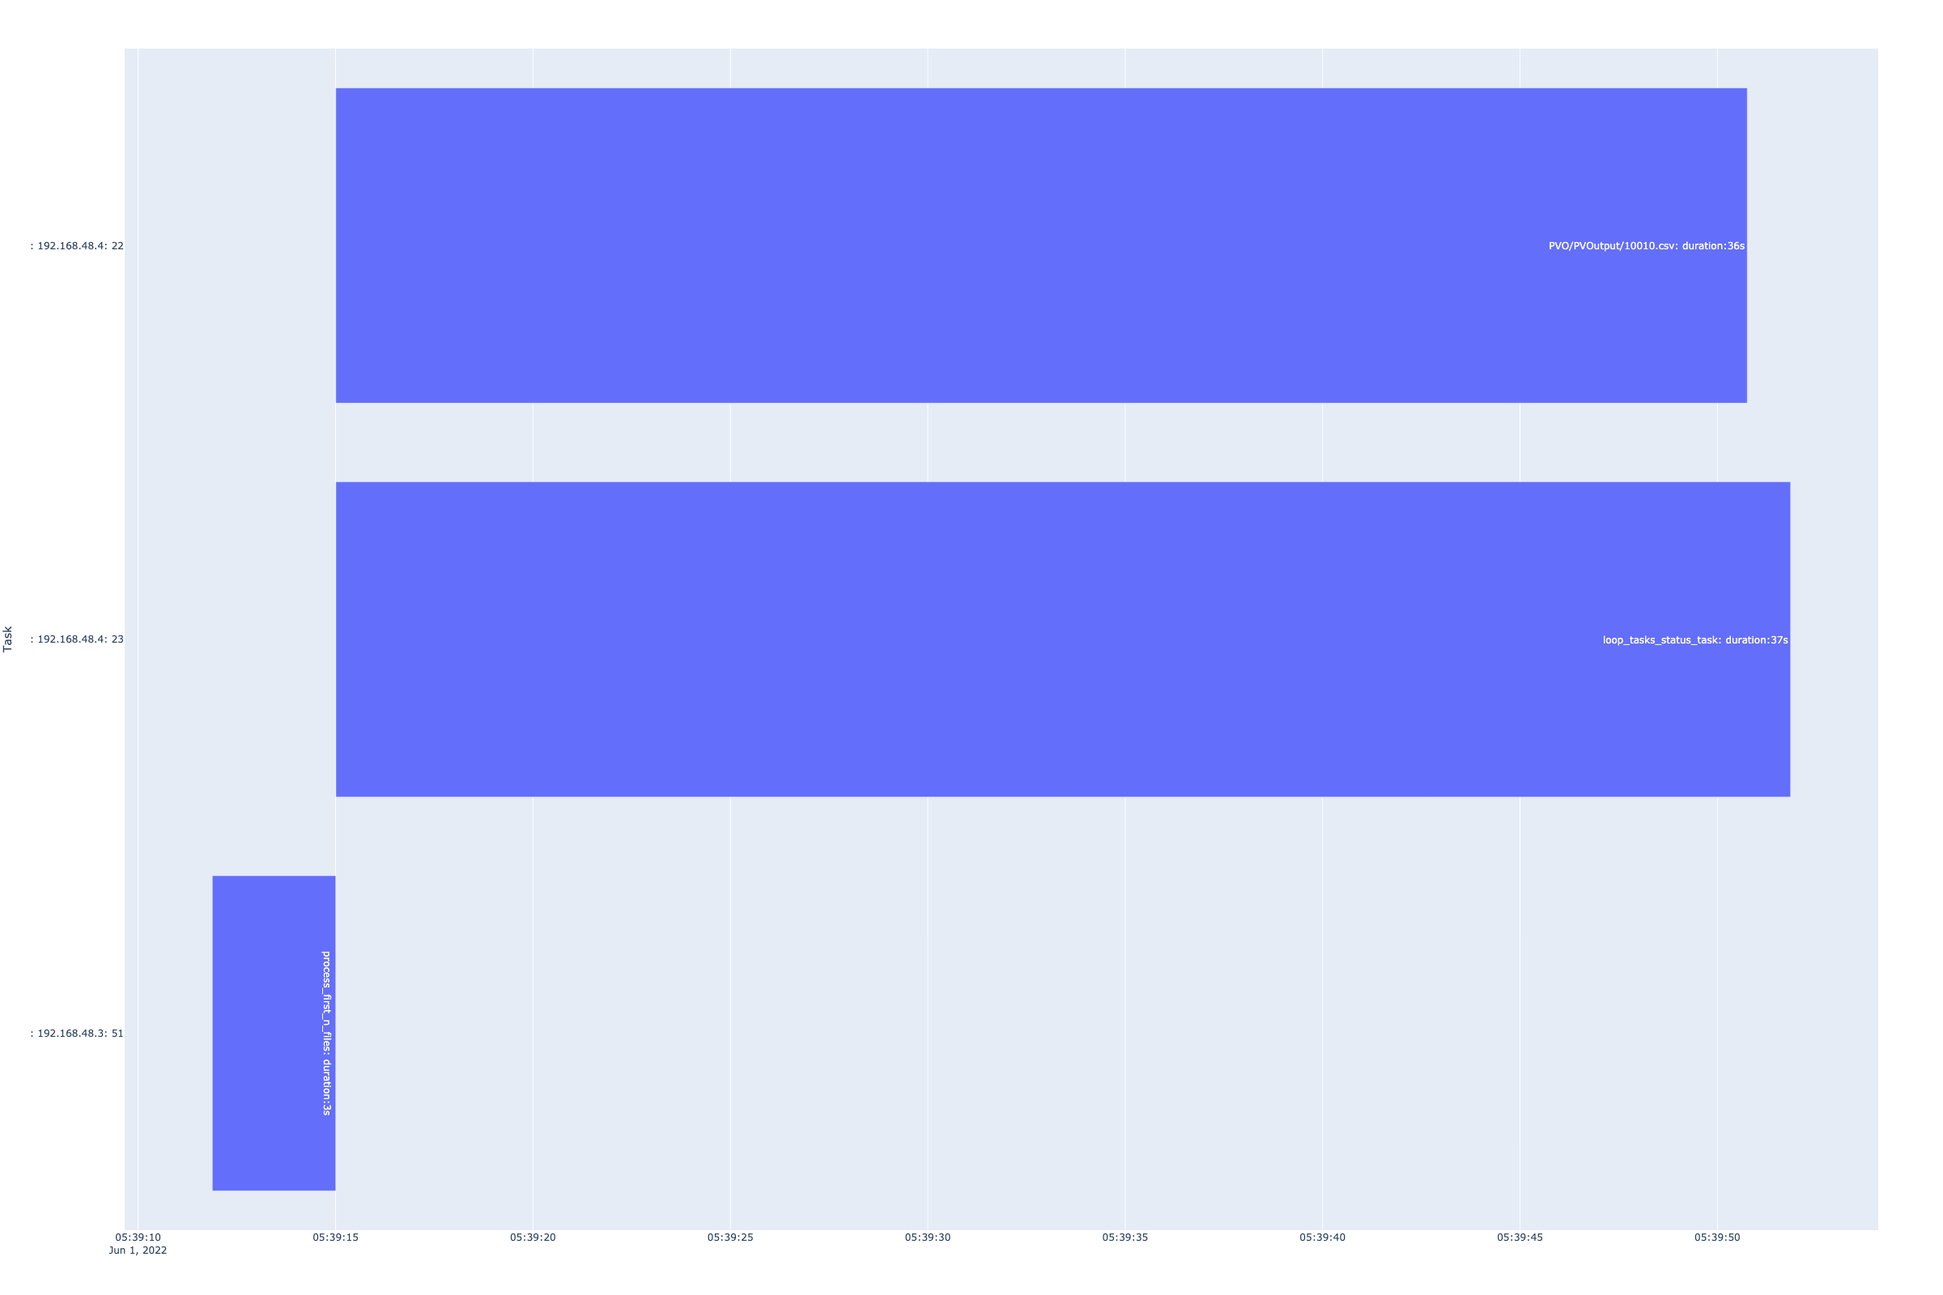
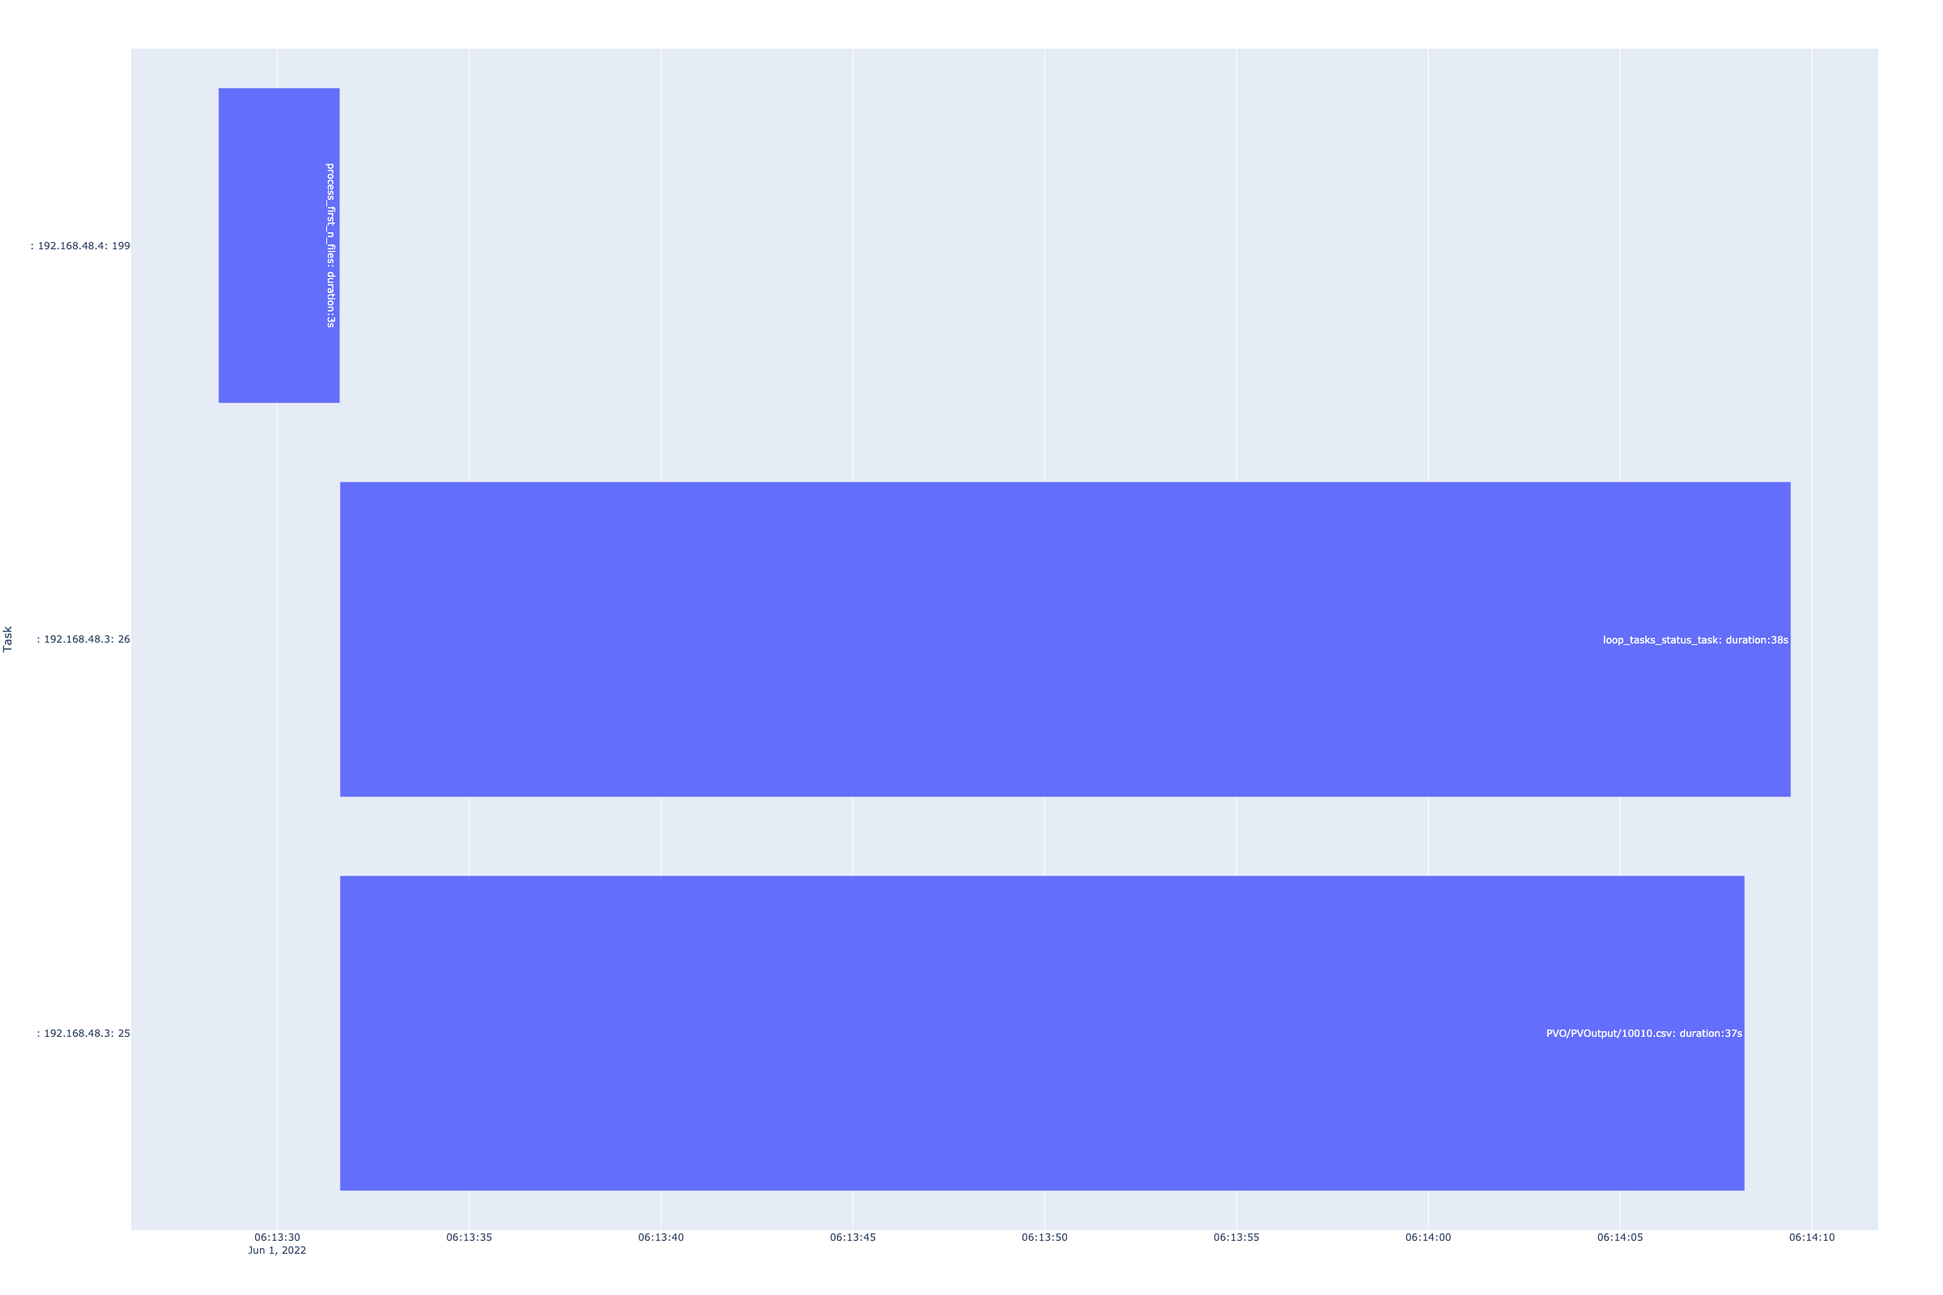
combine process first n file and process all file task

diff --git a/gismoclouddeploy/services/server/app.py b/gismoclouddeploy/services/server/app.py
@@ -57,8 +57,6 @@ def combine_files(bucket_name, source_folder,target_folder,target_filename):
         target_folder,
         target_filename
         ])
-
-    print(f"task id : {task.id}")
     
 # ***************************        
 # Process first n files
@@ -84,21 +82,28 @@ def process_first_n_files( config_params_str:str,
                                 time=str(time.time()),
                                 message="init process n files")
                                 
-    start_res = put_item_to_dynamodb(configure_obj.dynamodb_tablename,
+    put_item_to_dynamodb(configure_obj.dynamodb_tablename,
                                      workerstatus = start_status,
                                     aws_access_key=configure_obj.aws_access_key,
                                     aws_secret_access_key=configure_obj.aws_secret_access_key,
                                     aws_region=configure_obj.aws_region)
     
 
-    logger.info(f"Process first {first_n_files} files")
+    
     task_ids = []
     files = list_files_in_bucket(bucket_name=configure_obj.bucket,
                                  aws_access_key=configure_obj.aws_access_key,
                                  aws_secret_access_key=configure_obj.aws_secret_access_key,
                                  aws_region=configure_obj.aws_region)
+    n_files = files
+    logger.info(f"Process all files in {configure_obj.bucket}")
 
-    n_files = files[0:int(first_n_files)]
+    if int(first_n_files) != 0:
+        n_files = files[0:int(first_n_files)]
+        logger.info(f"Process first {first_n_files} files")
+        
+    for file in n_files:
+        print(file['Key'])
 
     s3_client = connect_aws_client(client_name='s3',
                                     key_id=configure_obj.aws_access_key,
@@ -157,7 +162,7 @@ def process_first_n_files( config_params_str:str,
     end_hostname = socket.gethostname()
     end_host_ip = socket.gethostbyname(hostname)   
     end_status = WorkerStatus(host_name=end_hostname,task_id="process_first_n_files", host_ip=end_host_ip, pid = pid,function_name="process_first_n_files", action="busy-stop/idle-start", time=str(time.time()),message="end process n files")
-    end_res = put_item_to_dynamodb(configure_obj.dynamodb_tablename, 
+    put_item_to_dynamodb(configure_obj.dynamodb_tablename, 
                                     workerstatus=end_status,
                                     aws_access_key=configure_obj.aws_access_key,
                                     aws_secret_access_key=configure_obj.aws_secret_access_key,
@@ -182,18 +187,29 @@ def process_files( config_params_str:str,
     hostname = socket.gethostname()
     host_ip = socket.gethostbyname(hostname)      
     pid = os.getpid()
-    temp_task_id = str(uuid.uuid4())
     start_status = WorkerStatus(host_name=hostname,task_id="process_files_from_yaml", host_ip=host_ip,pid=pid, function_name="process_files_from_yaml", action="idle-stop/busy-start", time=str(time.time()),message="init process files")
-    start_res = put_item_to_dynamodb(configure_obj.dynamodb_tablename, workerstatus = start_status)
+    put_item_to_dynamodb(configure_obj.dynamodb_tablename,
+                                     workerstatus = start_status,
+                                    aws_access_key=configure_obj.aws_access_key,
+                                    aws_secret_access_key=configure_obj.aws_secret_access_key,
+                                    aws_region=configure_obj.aws_region)
+    
    
     # print(f"start_res {start_res}")
     #     busy-stop/idle-start
 
     task_ids = []
-    s3_client = connect_aws_client('s3')
+    s3_client = connect_aws_client(client_name='s3',
+                                    key_id=configure_obj.aws_access_key,
+                                    secret=configure_obj.aws_secret_access_key,
+                                    region=configure_obj.aws_region)
     for file in configure_obj.files:
          # implement partial match 
-        matched_column_set = find_matched_column_name_set(bucket_name=configure_obj.bucket, columns_key=configure_obj.column_names, file_path_name=file,s3_client=s3_client)
+        # matched_column_set = find_matched_column_name_set(bucket_name=configure_obj.bucket, columns_key=configure_obj.column_names, file_path_name=file,s3_client=s3_client)
+        matched_column_set = find_matched_column_name_set(bucket_name=configure_obj.bucket, 
+                                                            columns_key=configure_obj.column_names, 
+                                                            file_path_name=file,
+                                                            s3_client=s3_client)
         for column in matched_column_set:
        
             path, filename = os.path.split(file)
@@ -210,78 +226,15 @@ def process_files( config_params_str:str,
                     configure_obj.saved_tmp_path,
                     temp_saved_filename,
                     start_time,
-                    solardata_params_str
+                    solardata_params_str,
+                    configure_obj.aws_access_key,
+                    configure_obj.aws_secret_access_key,
+                    configure_obj.aws_region,
+                    configure_obj.sns_topic
                     ])
             task_ids.append(str(task_id)) 
-    for id in task_ids:
-        print(id)
-    # # loop the task status in celery task
-    # loop_task = loop_tasks_status_task.apply_async([configure_obj.interval_of_check_task_status, 
-    #                                                 configure_obj.interval_of_exit_check_status,
-    #                                                 task_ids,
-    #                                                 configure_obj.saved_bucket,
-    #                                                 configure_obj.saved_tmp_path,
-    #                                                 configure_obj.saved_target_path,
-    #                                                 configure_obj.saved_target_filename,
-    #                                                 configure_obj.dynamodb_tablename,
-    #                                                 configure_obj.saved_logs_target_path,
-    #                                                 configure_obj.saved_logs_target_filename
-    #                                                 ])
 
-    # print(f"loop task: {loop_task}")
-    # # for id in task_ids:
-    # end_hostname = socket.gethostname()
-    # end_host_ip = socket.gethostbyname(hostname)   
-    # end_status = WorkerStatus(host_name=end_hostname,task_id="process_files_from_yaml", host_ip=end_host_ip, pid = pid,function_name="process_files_from_yaml", action="busy-stop/idle-start", time=str(time.time()),message="end process files")
-    # end_res = put_item_to_dynamodb(configure_obj.dynamodb_tablename, workerstatus=end_status)
-
-# ***************************        
-# process all files in bucket
-# ***************************      
-
-@cli.command("process_all_files_in_bucket")
-@click.argument('config_params_str', nargs=1)
-@click.argument('solardata_params_str', nargs=1)
-def process_all_files(config_params_str:str,solardata_params_str:str):
-    
-    configure_obj = make_configure_from_str(config_params_str)
-    hostname = socket.gethostname()
-    host_ip = socket.gethostbyname(hostname)      
-    pid = os.getpid()
-
-    start_status = WorkerStatus(host_name=hostname,task_id="process_all_files_in_bucket", host_ip=host_ip,pid=pid, function_name="process_all_files_in_bucket", action="idle-stop/busy-start", time=str(time.time()),message="init process n files")
-    start_res = put_item_to_dynamodb(configure_obj.dynamodb_tablename, workerstatus = start_status)
-   
-    print(f"Process all files in {configure_obj.bucket}")
-    task_ids = []
-    files = list_files_in_bucket(configure_obj.bucket)
-    # n_files = files[0:int(5)]
-    s3_client = connect_aws_client('s3')
-    for file in files:
-         # implement partial match 
-        matched_column_set = find_matched_column_name_set(bucket_name=configure_obj.bucket, columns_key=configure_obj.column_names, file_path_name=file['Key'],s3_client=s3_client)
-        for column in matched_column_set:
-       
-            path, filename = os.path.split(file['Key'])
-            prefix = path.replace("/", "-")
-            temp_saved_filename = f"{prefix}-{filename}"
-            start_time = time.time()
-    
-            task_id = process_data_task.apply_async([
-                    configure_obj.dynamodb_tablename,
-                    configure_obj.bucket,
-                    file['Key'],
-                    column,
-                    configure_obj.saved_bucket,
-                    configure_obj.saved_tmp_path,
-                    temp_saved_filename,
-                    start_time,
-                    solardata_params_str
-                    ])
-            task_ids.append(str(task_id)) 
-    for id in task_ids:
-        print(id)
-    # # loop the task status in celery task
+    # loop the task status in celery task
     loop_task = loop_tasks_status_task.apply_async([configure_obj.interval_of_check_task_status, 
                                                     configure_obj.interval_of_exit_check_status,
                                                     task_ids,
@@ -291,18 +244,24 @@ def process_all_files(config_params_str:str,solardata_params_str:str):
                                                     configure_obj.saved_target_filename,
                                                     configure_obj.dynamodb_tablename,
                                                     configure_obj.saved_logs_target_path,
-                                                    configure_obj.saved_logs_target_filename
+                                                    configure_obj.saved_logs_target_filename,
+                                                    configure_obj.aws_access_key,
+                                                    configure_obj.aws_secret_access_key,
+                                                    configure_obj.aws_region,
+                                                    configure_obj.sns_topic
                                                     ])
 
-    print(f"loop task: {loop_task}")
-    # for id in task_ids:
+    # print(f"loop task: {loop_task}")
+    # # for id in task_ids:
     end_hostname = socket.gethostname()
     end_host_ip = socket.gethostbyname(hostname)   
-    end_status = WorkerStatus(host_name=end_hostname,task_id="process_all_files_in_bucket", host_ip=end_host_ip, pid = pid,function_name="process_all_files_in_bucket", action="busy-stop/idle-start", time=str(time.time()),message="end process n files")
-    end_res = put_item_to_dynamodb(configure_obj.dynamodb_tablename, workerstatus=end_status)
-
-    return 
-
+    end_status = WorkerStatus(host_name=end_hostname,task_id="process_files_from_yaml", host_ip=end_host_ip, pid = pid,function_name="process_files_from_yaml", action="busy-stop/idle-start", time=str(time.time()),message="end process files")
+    put_item_to_dynamodb(configure_obj.dynamodb_tablename, 
+                                    workerstatus=end_status,
+                                    aws_access_key=configure_obj.aws_access_key,
+                                    aws_secret_access_key=configure_obj.aws_secret_access_key,
+                                    aws_region=configure_obj.aws_region
+                                    )
 
 
 

diff --git a/gismoclouddeploy/services/cli/main.py b/gismoclouddeploy/services/cli/main.py
@@ -13,7 +13,6 @@ from kubernetes import client, config
 import os
 from utils.invoke_function import (
     invoke_docekr_exec_run_process_files,
-    invoke_docekr_exec_run_process_all_files,
     invoke_docekr_exec_run_process_first_n_files,
     )
 from models.SolarParams import SolarParams
@@ -158,21 +157,17 @@ def run_process_files(number,delete_nodes,configfile):
         except Exception as e:
             logger.error(f"Process default files failed :{e}")
             return 
-
-    elif number == "n":
-        all_files = list_files_in_bucket(bucket_name=config_params_obj.bucket,key_id=AWS_ACCESS_KEY_ID, secret_key=AWS_SECRET_ACCESS_KEY,aws_region=AWS_DEFAULT_REGION)
-        number_files = len(all_files)
-        total_task_num = len(all_files) + 1
-        logger.info(f" ========= Process all {number_files} files in bucket ========= ")
-        try:
-            res = invoke_docekr_exec_run_process_all_files( config_params_obj,solardata_parmas_obj, config_params_obj.container_type, config_params_obj.container_name)
-        except Exception as e:
-            logger.error(f"Process all files failed :{e}")
-            return     
     else:
         if type(int(number)) == int:
-            logger.info(f" ========= Process first {number} files in bucket ========= ")
-            total_task_num = int(number) + 1
+            total_task_num = 0
+            if int(number) == 0 :
+                all_files = list_files_in_bucket(bucket_name=config_params_obj.bucket,key_id=AWS_ACCESS_KEY_ID, secret_key=AWS_SECRET_ACCESS_KEY,aws_region=AWS_DEFAULT_REGION)
+                number_files = len(all_files)
+                total_task_num = len(all_files) + 1
+                logger.info(f" ========= Process all {number_files} files in bucket ========= ")
+            else :
+                logger.info(f" ========= Process first {number} files in bucket ========= ")
+                total_task_num = int(number) + 1
             try:
                 res = invoke_docekr_exec_run_process_first_n_files( config_params_obj,solardata_parmas_obj, number, config_params_obj.container_type, config_params_obj.container_name)
            
@@ -291,7 +286,7 @@ def main():
 # Run files 
 @main.command()
 @click.option('--number','-n',
-            help="Process the first n files in bucket, if number=n, run all files in the bucket", 
+            help="Process the first n files in bucket, if number=0, run all files in the bucket", 
             default= None)
 @click.option('--deletenodes','-delete',
             help="Enbale or disable delet nodes after process, default is Ture. Set False to disable ", 

diff --git a/gismoclouddeploy/services/server/project/solardata/aws_utils.py b/gismoclouddeploy/services/server/project/solardata/aws_utils.py
@@ -40,45 +40,6 @@ def connect_aws_resource(resource_name,key_id,secret,region):
         )
         return resource
     raise Exception('AWS Validation Error')
-# def connect_aws_client(client_name:str):
-#     AWS_ACCESS_KEY_ID = current_app.config["AWS_ACCESS_KEY_ID"]
-#     AWS_SECRET_ACCESS_KEY = current_app.config["AWS_SECRET_ACCESS_KEY"]
-#     AWS_DEFAULT_REGION = current_app.config["AWS_DEFAULT_REGION"]
-#     if check_aws_validity(AWS_ACCESS_KEY_ID,AWS_SECRET_ACCESS_KEY) :
-#         client = boto3.client(
-#             client_name,
-#             region_name=AWS_DEFAULT_REGION,
-#             aws_access_key_id=AWS_ACCESS_KEY_ID,
-#             aws_secret_access_key= AWS_SECRET_ACCESS_KEY
-#         )
-#         return client
-#     raise Exception('AWS Validation Error')
-    
-# def connect_aws_resource(resource_name:str):
-#     AWS_ACCESS_KEY_ID = current_app.config["AWS_ACCESS_KEY_ID"]
-#     AWS_SECRET_ACCESS_KEY = current_app.config["AWS_SECRET_ACCESS_KEY"]
-#     AWS_DEFAULT_REGION = current_app.config["AWS_DEFAULT_REGION"]
-#     if check_aws_validity(AWS_ACCESS_KEY_ID,AWS_SECRET_ACCESS_KEY) :
-#         resource = boto3.resource(
-#             resource_name,
-#             region_name=AWS_DEFAULT_REGION,
-#             aws_access_key_id=AWS_ACCESS_KEY_ID,
-#             aws_secret_access_key= AWS_SECRET_ACCESS_KEY
-#         )
-#         return resource
-#     raise Exception('AWS Validation Error')
-
-
-# def check_aws_validity(key_id, secret):
-#     try:
-#         client = boto3.client('s3', aws_access_key_id=key_id, aws_secret_access_key=secret)
-#         response = client.list_buckets()
-#         return True
-
-#     except Exception as e:
-#         if str(e)!="An error occurred (InvalidAccessKeyId) when calling the ListBuckets operation: The AWS Access Key Id you provided does not exist in our records.":
-#             return True
-#         raise e
 
 
 def to_s3(bucket:str,file_path:str,filename:str, content, aws_access_key:str, aws_secret_access_key:str, aws_region:str) -> None:

diff --git a/gismoclouddeploy/services/cli/utils/invoke_function.py b/gismoclouddeploy/services/cli/utils/invoke_function.py
@@ -140,49 +140,6 @@ def invoke_docekr_exec_run_process_files(config_obj:Config  ,
         raise e
 
 
-def invoke_docekr_exec_run_process_all_files(config_obj:Config  , 
-                                        solarParams_obj: SolarParams, 
-                                        container_type, 
-                                        container_name):
-    solardata_params_str = solarParams_obj.parse_solardata_params_to_json_str()
-    config_params_str = config_obj.parse_config_to_json_str()
-    if container_type == "docker":
-        command = [ "docker", 
-                    "exec",
-                    "-it",
-                    container_name,
-                    "python",
-                    "app.py",
-                    "process_all_files_in_bucket",
-                    f"{config_params_str}",
-                    f"{solardata_params_str}",
-                    ]
-        
-    elif container_type == "kubernetes":
-        # get pod name
-       
-        pod_name = get_k8s_pod_name(container_name)
-        # print(f" k8s pod_name: {pod_name}")
-        # print(f"pod_name: {pod_name}")
-        command = [ "kubectl", 
-                    "exec",
-                    pod_name,
-                    "--stdin",
-                    "--tty",
-                    "--",
-                    "python",
-                    "app.py",
-                    "process_all_files_in_bucket",
-                    f"{config_params_str}",
-                    f"{solardata_params_str}"
-                ]
-    try:
-        res = exec_docker_command(command)
-        return res
-    except Exception as e:
-        raise e
-
-
 
 
 

diff --git a/gismoclouddeploy/services/server/project/config.py b/gismoclouddeploy/services/server/project/config.py
@@ -12,10 +12,10 @@ class BaseConfig:
     CELERY_RESULT_BACKEND = os.environ.get("CELERY_RESULT_BACKEND", "redis://127.0.0.1:6379/0")
     
 
-    AWS_ACCESS_KEY_ID = os.environ.get('AWS_ACCESS_KEY_ID')
-    AWS_SECRET_ACCESS_KEY = os.environ.get('AWS_SECRET_ACCESS_KEY')
-    AWS_DEFAULT_REGION = os.environ.get('AWS_DEFAULT_REGION')
-    SNS_TOPIC = os.environ.get('SNS_TOPIC')
+    # AWS_ACCESS_KEY_ID = os.environ.get('AWS_ACCESS_KEY_ID')
+    # AWS_SECRET_ACCESS_KEY = os.environ.get('AWS_SECRET_ACCESS_KEY')
+    # AWS_DEFAULT_REGION = os.environ.get('AWS_DEFAULT_REGION')
+    # SNS_TOPIC = os.environ.get('SNS_TOPIC')
     
 class DevelopmentConfig(BaseConfig):
     """Development configuration"""
